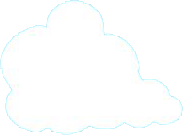
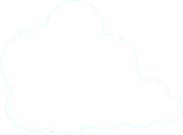
nubes posicionadas en DOM

diff --git a/css/style.css b/css/style.css
@@ -1,20 +1,53 @@
-#container-all-game{
+#container-all-game {}
 
+#game-body-container {
+   background-color: blue;
+   display: flex;
+   justify-content: space-evenly;
+   height: 680px;
 }
-#game-body-container{
-background-color: blue;
-display: flex;
-justify-content: space-evenly;
-height: 680px;
-}
-#game-body-container>.game-play{
+
+#game-body-container>.game-play {
    width: 960px;
-   height: 680px; 
- background-image: url(../img/fondo.jpg);
- background-size: contain;
+   height: 680px;
+   background-image: url(../img/fondo.jpg);
+   background-size: contain;
 }
-#game-body-container>.scores{
-    background-color: sandybrown;
-    width: 380px;
-    height: 680px;
- }
+
+#game-body-container>.scores {
+   background-color: sandybrown;
+   width: 380px;
+   height: 680px;
+}
+
+.nubes-container {
+   overflow-x: auto;
+   height: 256px;
+}
+
+.nubes-container>img:nth-child(1) {
+   position: relative;
+   left: 677px;
+   top: 13px;
+}
+
+.nubes-container>img:nth-child(2) {
+   top: 147px;
+   left: -91px;
+   width: 144px;
+   position: relative;
+}
+
+.nubes-container>img:nth-child(3) {
+   width: 304px;
+   position: relative;
+   top: 116px;
+   left: 100px;
+}
+
+.nubes-container>img:nth-child(4) {
+   width: 304px;
+   position: relative;
+   top: -96px;
+   left: 84px;
+}

diff --git a/index.html b/index.html
@@ -12,9 +12,19 @@
 <body>
 
     <div id="container-all-game">
-        
+
         <div id="game-body-container">
-            <div class="game-play"></div>
+            <div class="game-play">
+                <div class="nubes-container">
+                    <img src="./img/nube-peque-uno.png" alt="nube-peque-uno">
+                    <img src="./img/nube-peque-dos.png" alt="nube-peque-dos">
+                    <img src="./img/nube-larga-uno.png" alt="nube-larga-uno">
+                    <img src="./img/nube-larga-dos.png" alt="nube-larga-dos">
+
+                </div>
+            </div>
+
+
             <div class="scores"></div>
         </div>
 
